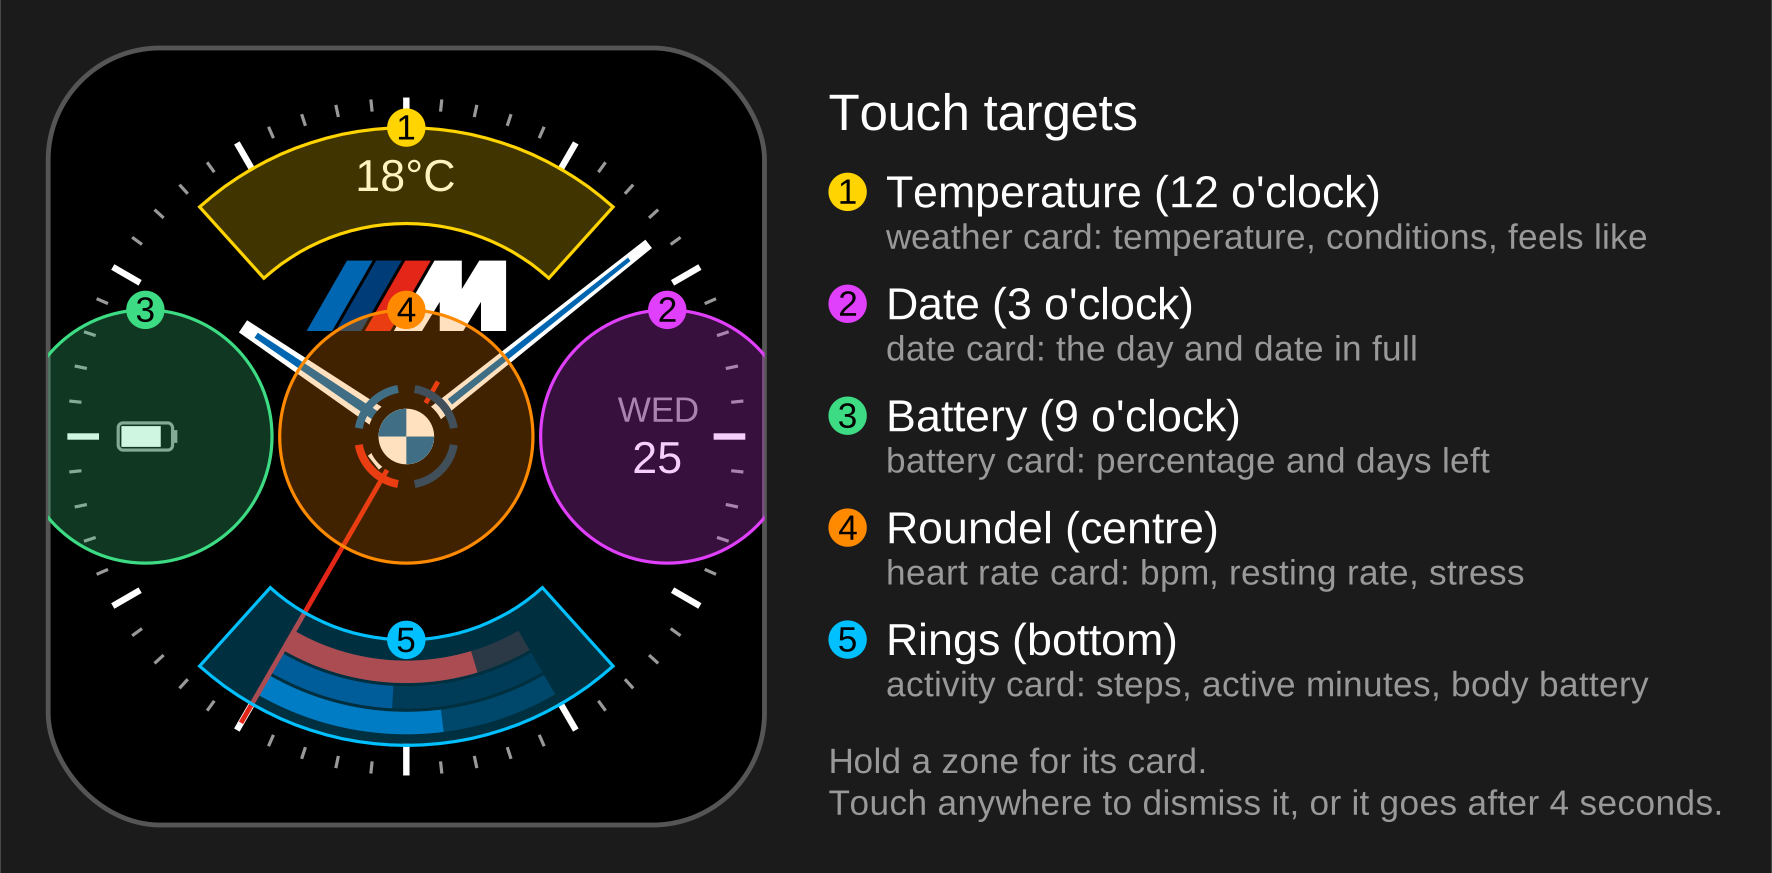
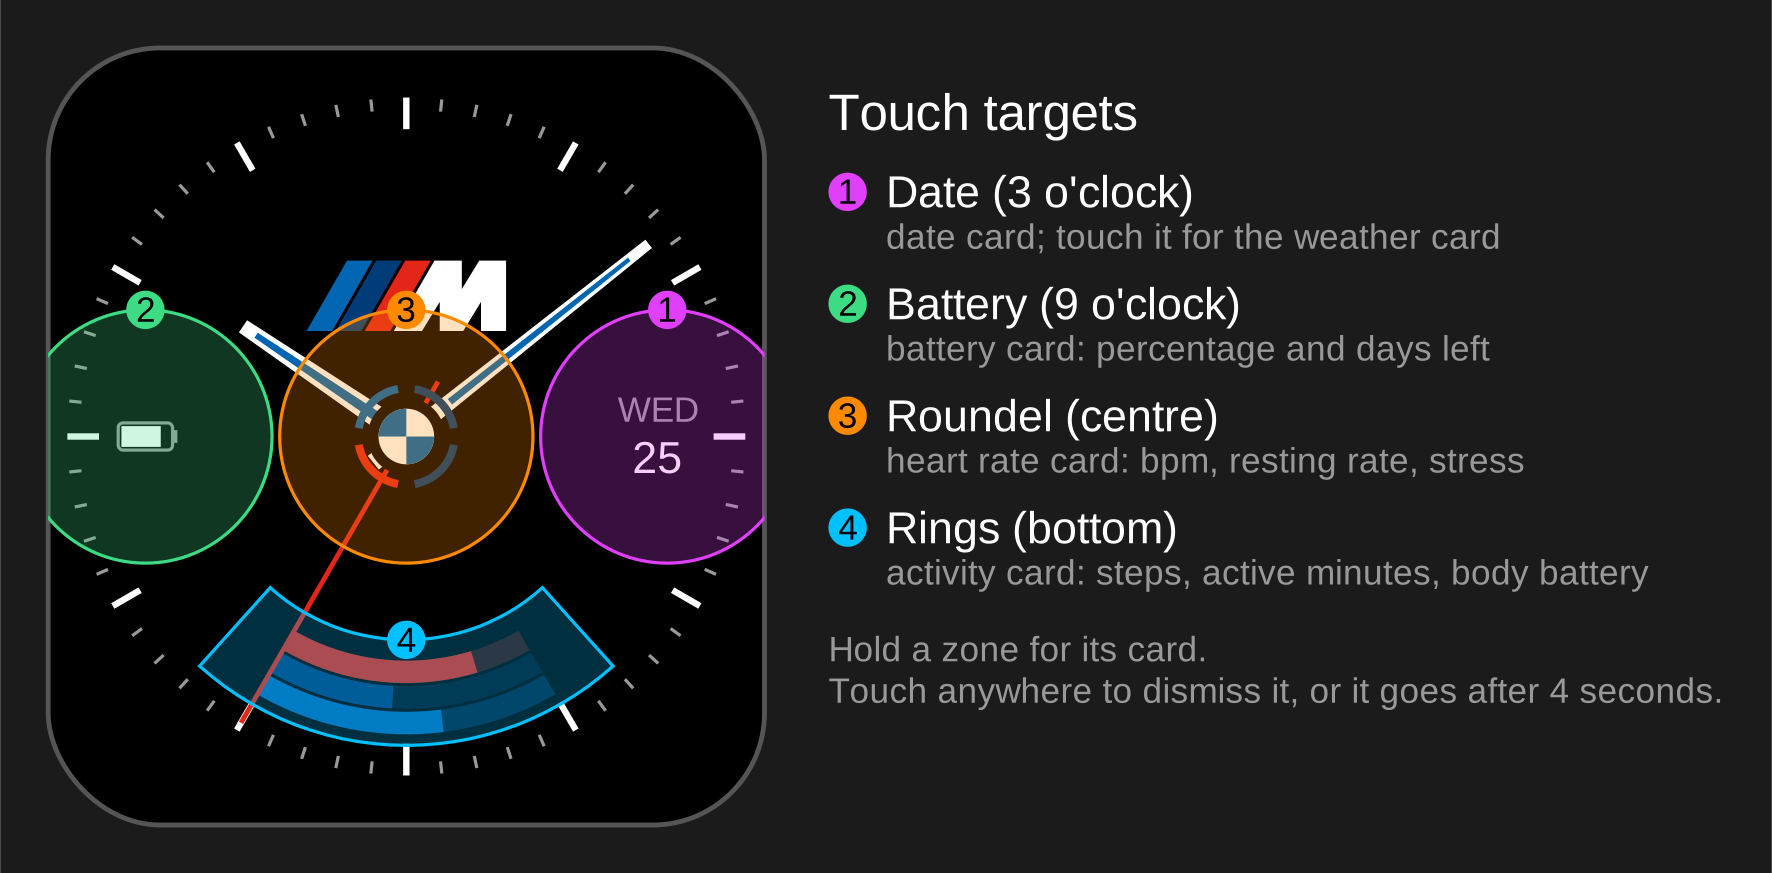
Take the temperature off the dial: touch the date, then its card, for the weather
- Remove the temperature readout and the 12 o'clock touch zone
- The date card has a chevron and leads on to the weather card
- Wireframes and README updated; four touch zones

Claude-Session: https://claude.ai/code/session_01CEiR5mX4CwQUtKoZKTxSUA

diff --git a/tools/wireframes.py b/tools/wireframes.py
@@ -53,7 +53,7 @@ BLUE_DIM, NAVY_DIM, RED_DIM = col("BLUE_DIM"), col("NAVY_DIM"), col("RED_DIM")
 WHITE, BLACK = col("WHITE"), col("BLACK")
 GREY = col("GREY")
 CHROME = "#555555"          # the mock watch bezel in the images; not part of the face
-ZONE_COLORS = {1: "#FFD400", 2: "#E040FB", 3: "#3DDC84", 4: "#FF8A00", 5: "#00C0FF"}   # touch targets: yellow, magenta, green, orange, cyan
+ZONE_COLORS = {1: "#E040FB", 2: "#3DDC84", 3: "#FF8A00", 4: "#00C0FF"}   # touch targets: magenta, green, orange, cyan
 GAP, TICK_INSET, RING_TICK_GAP = num("GAP"), num("TICK_INSET"), num("RING_TICK_GAP")
 TICK_MAJOR, TICK_MINOR = num("TICK_MAJOR"), num("TICK_MINOR")
 BATT_W, BATT_H, BATT_R, BATT_TERM_W, BATT_TERM_H, BATT_PAD = (num("BATT_W"), num("BATT_H"), num("BATT_R"),
@@ -62,12 +62,13 @@ BATT_W, BATT_H, BATT_R, BATT_TERM_W, BATT_TERM_H, BATT_PAD = (num("BATT_W"), num
 CARD_W, CARD_H, CARD_H_ROWS, CARD_H_TWO, CARD_R, CARD_PAD = (num("CARD_W"), num("CARD_H"), num("CARD_H_ROWS"),
                                                               num("CARD_H_TWO"), num("CARD_R"), num("CARD_PAD"))
 CARD_DETAIL2_PITCH = num("CARD_DETAIL2_PITCH")
+CARD_CHEVRON_HALF_W, CARD_CHEVRON_HALF_H = num("CARD_CHEVRON_HALF_W"), num("CARD_CHEVRON_HALF_H")
 CARD_SWATCH_H, CARD_SWATCH_GAP = num("CARD_SWATCH_H"), num("CARD_SWATCH_GAP")
 CARD_TITLE_Y, CARD_BIG_Y, CARD_DETAIL_Y, CARD_ROW_Y, CARD_ROW_PITCH = (num("CARD_TITLE_Y"), num("CARD_BIG_Y"),
                                                                         num("CARD_DETAIL_Y"), num("CARD_ROW_Y"),
                                                                         num("CARD_ROW_PITCH"))
 WINDOW_DATE_DX = num("WINDOW_DATE_DX")
-TOUCH_R, TOUCH_TEMP_HALF_R, TOUCH_ARC_ANGLE = num("TOUCH_R"), num("TOUCH_TEMP_HALF_R"), num("TOUCH_ARC_ANGLE")
+TOUCH_R, TOUCH_ARC_ANGLE = num("TOUCH_R"), num("TOUCH_ARC_ANGLE")
 TOUCH_RING_OUT, TOUCH_RING_IN = num("TOUCH_RING_OUT"), num("TOUCH_RING_IN")
 DIM = {BLUE: BLUE_DIM, NAVY: NAVY_DIM, RED: RED_DIM}
 # Theme.metricColor(): one colour per metric everywhere
@@ -204,6 +205,10 @@ def draw_card(s, kind):
         "activity": ("ACTIVITY", "", ""),
     }[kind]
     s.text(CX, top + CARD_TITLE_Y, title, "label", GREY)
+    if kind == "date":                                   # touch the date card for the weather
+        ax, ay = left + CARD_W - CARD_PAD, top + ch / 2
+        s.line((ax - CARD_CHEVRON_HALF_W, ay - CARD_CHEVRON_HALF_H), (ax + CARD_CHEVRON_HALF_W, ay), GREY, 2)
+        s.line((ax + CARD_CHEVRON_HALF_W, ay), (ax - CARD_CHEVRON_HALF_W, ay + CARD_CHEVRON_HALF_H), GREY, 2)
     if rows:
         for i, (n, v) in enumerate([("Steps", "6214 / 10000"), ("Active", "68 / 150 min"), ("Body battery", "78")]):
             y = top + CARD_ROW_Y + i * CARD_ROW_PITCH
@@ -234,8 +239,6 @@ def dial_into(s, ox, oy, zones=False, card=None):
         s.line(pt(inner, 90 - i * 6), pt(outer, 90 - i * 6),
                WHITE if major else GREY, 4 if major else 2)
     draw_badge(s, CY - R * .4)
-    temp_y = CY - (RING_OUT - PITCH)                 # Geometry.tempY()
-    s.text(CX, temp_y, "18&#176;C", "value", WHITE)  # the weather tap target
     arc = RING_OUT - PITCH                           # one arc: the middle ring's distance from the centre
     sx = CX + arc                                    # the date window at 3 o'clock
     hl, hv = FONT_PX["label"] * 1.2, FONT_PX["value"] * 1.2        # approximate line heights
@@ -256,26 +259,20 @@ def dial_into(s, ox, oy, zones=False, card=None):
         z = ZONE_COLORS
         s.add('<clipPath id="scr"><rect width="%d" height="%d" rx="70"/></clipPath><g clip-path="url(#scr)">' % (W, H))
         shape = 'fill="%s" fill-opacity=".25" stroke="%s" stroke-width="2"'
-        top_lo, top_hi = 90 - TOUCH_ARC_ANGLE, 90 + TOUCH_ARC_ANGLE          # the temperature arc, around 12 o'clock
-        t_in, t_out = arc - TOUCH_TEMP_HALF_R, arc + TOUCH_TEMP_HALF_R
-        tband = ([pt(t_out, a_) for a_ in range(top_lo, top_hi + 1, 3)]
-                 + [pt(t_in, a_) for a_ in range(top_hi, top_lo - 1, -3)])
-        s.add('<polygon points="%s" %s/>' % (pts(tband), shape % (z[1], z[1])))
-        s.add('<circle cx="%.1f" cy="%.1f" r="%.1f" %s/>' % (CX + arc, CY, R * TOUCH_R, shape % (z[2], z[2])))
-        s.add('<circle cx="%.1f" cy="%.1f" r="%.1f" %s/>' % (CX - arc, CY, R * TOUCH_R, shape % (z[3], z[3])))
-        s.add('<circle cx="%.1f" cy="%.1f" r="%.1f" %s/>' % (CX, CY, R * TOUCH_R, shape % (z[4], z[4])))
+        s.add('<circle cx="%.1f" cy="%.1f" r="%.1f" %s/>' % (CX + arc, CY, R * TOUCH_R, shape % (z[1], z[1])))
+        s.add('<circle cx="%.1f" cy="%.1f" r="%.1f" %s/>' % (CX - arc, CY, R * TOUCH_R, shape % (z[2], z[2])))
+        s.add('<circle cx="%.1f" cy="%.1f" r="%.1f" %s/>' % (CX, CY, R * TOUCH_R, shape % (z[3], z[3])))
         lo_a, hi_a = 270 - TOUCH_ARC_ANGLE, 270 + TOUCH_ARC_ANGLE
         band = ([pt(r_hi, a_) for a_ in range(lo_a, hi_a + 1, 3)]
                 + [pt(r_lo, a_) for a_ in range(hi_a, lo_a - 1, -3)])
-        s.add('<polygon points="%s" %s/>' % (pts(band), shape % (z[5], z[5])))
+        s.add('<polygon points="%s" %s/>' % (pts(band), shape % (z[4], z[4])))
         s.add('</g>')                                   # end of the screen clip
         # The number badge always sits centred on the top edge of its target's outline.
         badge = lambda x, y, n: (s.circle(x, y, 12, z[n]), s.text(x, y, str(n), "label", BLACK))
-        badge(CX, CY - t_out, 1)                        # temperature: top (outer edge) of its arc
-        badge(CX + arc, CY - R * TOUCH_R, 2)                # date: top of its circle
-        badge(CX - arc, CY - R * TOUCH_R, 3)                # battery: top of its circle
-        badge(CX, CY - R * TOUCH_R, 4)                      # roundel: top of its circle
-        badge(CX, CY + r_lo, 5)                         # rings: top (inner edge) of the wedge
+        badge(CX + arc, CY - R * TOUCH_R, 1)                # date: top of its circle
+        badge(CX - arc, CY - R * TOUCH_R, 2)                # battery: top of its circle
+        badge(CX, CY - R * TOUCH_R, 3)                      # roundel: top of its circle
+        badge(CX, CY + r_lo, 4)                         # rings: top (inner edge) of the wedge
     if card:
         draw_card(s, card)
     s.add("</g>")
@@ -289,19 +286,18 @@ def tap_zones():
     dial_into(s, 0, 0, True)
     x0 = W + 40
     s.text(x0, 40, "Touch targets", "title", WHITE, "start")
-    rows = [("1", ZONE_COLORS[1], "Temperature (12 o'clock)", "weather card: temperature, conditions, feels like"),
-            ("2", ZONE_COLORS[2], "Date (3 o'clock)", "date card: the day and date in full"),
-            ("3", ZONE_COLORS[3], "Battery (9 o'clock)", "battery card: percentage and days left"),
-            ("4", ZONE_COLORS[4], "Roundel (centre)", "heart rate card: bpm, resting rate, stress"),
-            ("5", ZONE_COLORS[5], "Rings (bottom)", "activity card: steps, active minutes, body battery")]
+    rows = [("1", ZONE_COLORS[1], "Date (3 o'clock)", "date card; touch it for the weather card"),
+            ("2", ZONE_COLORS[2], "Battery (9 o'clock)", "battery card: percentage and days left"),
+            ("3", ZONE_COLORS[3], "Roundel (centre)", "heart rate card: bpm, resting rate, stress"),
+            ("4", ZONE_COLORS[4], "Rings (bottom)", "activity card: steps, active minutes, body battery")]
     for i, (n, c, name, what) in enumerate(rows):
         y = 90 + i * 70
         s.circle(x0 + 12, y, 12, c)
         s.text(x0 + 12, y, n, "label", BLACK)
         s.text(x0 + 36, y, name, "value", WHITE, "start")
         s.text(x0 + 36, y + 28, what, "label", GREY, "start")
-    s.text(x0, 90 + 5 * 70 + 6, "Hold a zone for its card.", "label", GREY, "start")
-    s.text(x0, 90 + 5 * 70 + 32, "Touch anywhere to dismiss it, or it goes after 4 seconds.", "label", GREY, "start")
+    s.text(x0, 90 + 4 * 70 + 6, "Hold a zone for its card.", "label", GREY, "start")
+    s.text(x0, 90 + 4 * 70 + 32, "Touch anywhere to dismiss it, or it goes after 4 seconds.", "label", GREY, "start")
     return s.doc((W + 60 + lw) * 1.6, (H + 60) * 1.6, "-30 -30 %d %d" % (W + 60 + lw, H + 60))
 
 
@@ -315,7 +311,7 @@ def dial(zones=False):
 def cards():
     """The quick cards shown when a zone is pressed, over the dial."""
     s = Svg()
-    kinds = ["battery", "weather", "activity"]
+    kinds = ["battery", "date", "weather", "activity"]
     total = len(kinds) * W + (len(kinds) - 1) * 40
     s.add('<rect x="-20" y="-20" width="%d" height="%d" fill="#1b1b1b"/>' % (total + 40, H + 40))
     for i, k in enumerate(kinds):

diff --git a/README.md b/README.md
@@ -26,13 +26,15 @@ simulator screenshots. They are generated from `source/Theme.mc` by
 - M badge at 12 o'clock, drawn from the flat M logo's geometry.
 - Three activity rings inside the lower dial, in the badge colours:
   steps (blue), weekly active minutes (navy) and body battery (red).
-- Three readouts on one arc, the same distance from the centre as the middle ring: the
-  temperature at 12 o'clock, the date at 3 o'clock, and the watch battery at 9 o'clock as a
-  simple icon that empties as the battery drains (red below 20%).
-- Quick cards. Hold the temperature, date, battery, roundel or rings and a small card appears
-  over the dial with a little more detail: weather and feels-like, the date in full, battery
-  percentage and days left, heart rate with resting rate and stress, steps / active minutes /
-  body battery. Touch anywhere to dismiss it; it also goes after four seconds.
+- Two readouts on one arc, the same distance from the centre as the middle ring: the date at
+  3 o'clock, and the watch battery at 9 o'clock as a simple icon that empties as the battery
+  drains (red below 20%). The temperature is not on the dial.
+- Quick cards. Hold the date, battery, roundel or rings and a small card appears over the dial
+  with a little more detail: the date in full, battery percentage and days left, heart rate with
+  resting rate and stress, steps / active minutes / body battery, each row marked with a slanted
+  M stripe in its ring's colour. Touch anywhere to dismiss it; it also goes after four seconds.
+- The weather is behind the date: touch the date card (it has a chevron) and the weather card
+  replaces it, with the temperature, conditions, feels-like, and the day's high and low.
 
 **Why a hold, and why no pages.** Garmin's `WatchFaceDelegate` documents only `onPress` (touch and
 hold). A plain tap and a swipe are never delivered to a watch face, and the simulator sends only
@@ -127,7 +129,7 @@ vary slightly.
 ## Tests
 
 The logic that does not need the watch is split into small modules (`Geometry`, `Logo`, `Stats`,
-`Units`, `Theme`) and covered by Connect IQ unit tests in `source/tests/`: 21 tests for the touch
+`Units`, `Theme`) and covered by Connect IQ unit tests in `source/tests/`: 20 tests for the touch
 hit-testing, the badge geometry, number formatting, the unit conversion and the theme mappings.
 Drawing code and anything that reads live watch data is not tested.
 
@@ -154,7 +156,7 @@ Everything visual comes from `source/Theme.mc`, so a change there changes the wh
   overlap whatever the device's fonts are.
 
 The touch targets' sizes (the shared radius of the roundel, date and battery circles, the
-temperature and rings arcs) are tokens too, read by both the app and the wireframe tool, so the
+rings arc) are tokens too, read by both the app and the wireframe tool, so the
 touch-targets image follows the code. The dial's own layout (badge, hands, roundel, tick lengths)
 is written as fractions of the dial radius in `BmwMWatchView.mc` rather than tokens.
 
@@ -197,7 +199,7 @@ See [Running on Windows or macOS](#running-on-windows-or-macos-no-container).
 
 ## Status
 
-Compiled and run on a Venu X1 and in the Windows simulator; the 21 unit tests pass.
+Compiled and run on a Venu X1 and in the Windows simulator; the unit tests pass.
 
 - A watch face may not use `Toybox.Timer` (the first run on a watch failed with "Symbol 'start' not
   available to 'Watch Face'"), so the card expires by timestamp, checked in `onUpdate`. If a card
